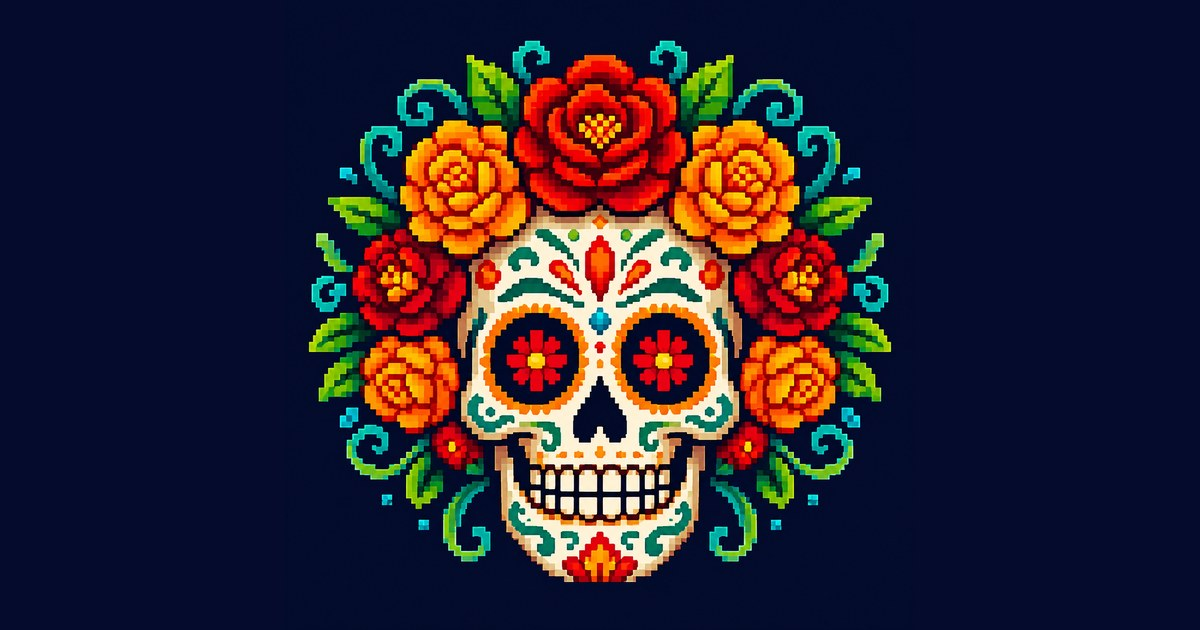
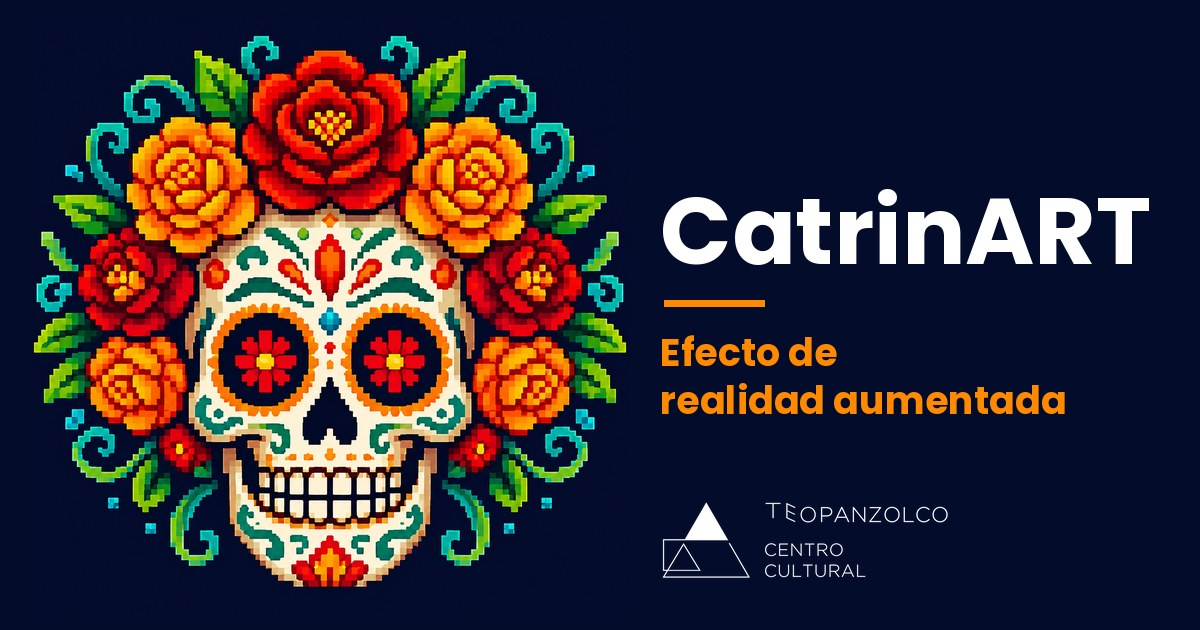
se agregan mas diseños al filtro

diff --git a/js/maquillaje.js b/js/maquillaje.js
@@ -1,11 +1,10 @@
 /* ==================================================
    CatrinART
-   MÓDULO: MAQUILLAJE DE CATRINA (único diseño)
+   MÓDULO: MAQUILLAJE DE RESPALDO (dibujado por código)
    ==================================================
-   Dibujo vectorial original, trazado con código sobre los puntos de la cara. Motivos tradicionales del
-   Día de Muertos: base blanca, cuencas con borde de cuentas, filigrana en la frente, nariz de calavera,
-   costuras en la boca, adorno en la barbilla y corona de flores de cempasúchil y rosas.
-   Para cambiar colores o tamaños, edita la paleta COLOR y los factores de cada bloque.
+   Solo se usa como ÚLTIMO RESPALDO cuando no cargan ni la malla con textura ni el diseño de assets/catrina-diseno.png.
+   Dibuja lo básico sobre los puntos de la cara: base blanca, cuencas con borde de cuentas, nariz de calavera y costuras
+   en la boca. Ya no incluye filigrana ni flores: el diseño real viene de la textura y de assets/catrina-flores.png.
    ================================================== */
 
 let COLOR = {
@@ -23,18 +22,6 @@ const OVALO = [10,338,297,332,284,251,389,356,454,323,361,288,397,365,379,378,40
 const OJO_IZQ = [33,7,163,144,145,153,154,155,133,173,157,158,159,160,161,246];
 const OJO_DER = [362,382,381,380,374,373,390,249,263,466,388,387,386,385,384,398];
 const TAU = Math.PI * 2;
-
-/** Flor de capas (pétalos redondos): tonos = [exterior, medio, centro]. */
-function flor(c, x, y, r, tonos) {
-  [[1, 9, tonos[0]], [0.72, 7, tonos[1]], [0.42, 5, tonos[2]]].forEach(([k, n, col], j) => {
-    c.fillStyle = col; c.strokeStyle = 'rgba(0,0,0,.2)'; c.lineWidth = Math.max(1, r * 0.04);
-    for (let i = 0; i < n; i++) {
-      const a = i * TAU / n + j * 0.5;
-      c.beginPath(); c.arc(x + Math.cos(a) * r * k * 0.55, y + Math.sin(a) * r * k * 0.55, r * k * 0.5, 0, TAU);
-      c.fill(); c.stroke();
-    }
-  });
-}
 
 /** Dibuja el maquillaje sobre un rostro. pts = 478 puntos normalizados; W, H = tamaño del canvas. */
 function dibujarMaquillaje(c, pts, W, H, capas) {   // capas: lista de bloques a dibujar; null = todos (respaldo sin malla)
@@ -62,25 +49,6 @@ function dibujarMaquillaje(c, pts, W, H, capas) {   // capas: lista de bloques a
     g.addColorStop(0, COLOR.sombra); g.addColorStop(1, 'rgba(95,125,160,0)');
     c.fillStyle = g; punto(p, faceW * 0.3, true);
   });
-
-  }
-
-  if (ver('frente')) {
-  // 2) Frente: rombo central, línea con círculo, volutas y puntos
-  const f = P(9), d = faceW * 0.045;
-  c.strokeStyle = COLOR.tinta; c.lineWidth = trazo;
-  [-1, 1].forEach(s => {
-    const a = at(f, s * d, 0), b = at(f, s * faceW * 0.13, -faceH * 0.11), e = at(f, s * faceW * 0.24, -faceH * 0.06);
-    c.beginPath(); c.moveTo(a.x, a.y); c.quadraticCurveTo(b.x, b.y, e.x, e.y); c.stroke();
-    c.fillStyle = COLOR.tinta; punto(e, trazo * 1.4, true);
-    punto(at(f, s * faceW * 0.12, -faceH * 0.02), faceW * 0.02, false);
-  });
-  const top = at(f, 0, -faceH * 0.15);
-  c.beginPath(); c.moveTo(at(f, 0, -d).x, at(f, 0, -d).y); c.lineTo(top.x, top.y); c.stroke();
-  c.fillStyle = COLOR.base; punto(top, faceW * 0.02, true); punto(top, faceW * 0.02, false);
-  c.beginPath(); [at(f, 0, -d), at(f, d * 0.75, 0), at(f, 0, d * 1.2), at(f, -d * 0.75, 0)].forEach((p, i) => i ? c.lineTo(p.x, p.y) : c.moveTo(p.x, p.y));
-  c.closePath(); c.fillStyle = COLOR.ambar; c.fill(); c.stroke();
-  c.fillStyle = COLOR.rojo; punto(f, d * 0.22, true);
 
   }
 
@@ -137,37 +105,6 @@ function dibujarMaquillaje(c, pts, W, H, capas) {   // capas: lista de bloques a
       c.beginPath(); c.moveTo(a.x, a.y); c.lineTo(b.x, b.y); c.stroke();
     }
   });
-
-  }
-
-  if (ver('barbilla')) {
-  // 6) Adorno en la barbilla: flor negra con centro blanco
-  const ch = at(P(152), 0, -faceH * 0.075);
-  c.fillStyle = COLOR.tinta;
-  for (let n = 0; n < 6; n++) { const t = n * TAU / 6 + roll; c.beginPath(); c.ellipse(ch.x + Math.cos(t) * faceW * 0.03, ch.y + Math.sin(t) * faceW * 0.03, faceW * 0.028, faceW * 0.016, t, 0, TAU); c.fill(); }
-  c.fillStyle = COLOR.base; punto(ch, faceW * 0.012, true);
-
-  }
-
-  // 6b) Flores en las mejillas
-  if (ver('mejillas')) {
-    [50, 280].forEach(k => { const p = P(k); flor(c, p.x, p.y, faceW * 0.06, [COLOR.vino, COLOR.rojo, COLOR.naranja]); });
-  }
-
-  if (ver('corona')) {
-  // 7) Corona: hojas y flores en arco sobre la frente
-  const cen = at(P(10), 0, faceH * 0.28), rxc = faceW * 0.66, ryc = faceH * 0.62, N = 9;
-  const pos = i => { const t = Math.PI * (1.04 + 0.92 * i / (N - 1)); return { p: at(cen, Math.cos(t) * rxc, Math.sin(t) * ryc), t }; };
-  c.fillStyle = COLOR.hoja;
-  for (let i = 0; i < N - 1; i++) {
-    const q = pos(i), r = pos(i + 1), m = { x: (q.p.x + r.p.x) / 2, y: (q.p.y + r.p.y) / 2 };
-    c.beginPath(); c.ellipse(m.x, m.y, faceW * 0.09, faceW * 0.035, (q.t + r.t) / 2 + Math.PI / 2, 0, TAU); c.fill();
-  }
-  const tonos = [[COLOR.naranja, COLOR.ambar, COLOR.amarillo], [COLOR.vino, COLOR.rojo, COLOR.naranja], [COLOR.amarillo, COLOR.ambar, COLOR.naranja]];
-  for (let i = 0; i < N; i++) {
-    const { p } = pos(i), grande = 1 - Math.abs(i - (N - 1) / 2) / N;
-    flor(c, p.x, p.y, faceW * (0.1 + 0.07 * grande), tonos[i % 3]);
-  }
 
   }
 

diff --git a/js/malla.js b/js/malla.js
@@ -65,10 +65,11 @@ async function initMalla() {
       const texCanvas = document.createElement('canvas');
       texCanvas.width = texCanvas.height = side;
       const g = texCanvas.getContext('2d');
-      if (d.filtroCss && d.filtroCss !== 'none') {
-        g.filter = d.filtroCss;
-      }
+      const filtro = d.filtroCss && d.filtroCss !== 'none' ? d.filtroCss : null;
+      const nativo = 'filter' in g;                       // Safari/iOS antiguos no lo soportan
+      if (filtro && nativo) g.filter = filtro;
       g.drawImage(img, 0, 0, side, side);
+      if (filtro && !nativo) aplicarFiltroPixeles(g, side, filtro);
 
       const texture = gl.createTexture();
       gl.bindTexture(gl.TEXTURE_2D, texture);
@@ -133,4 +134,34 @@ function dibujarMalla(c, rostros, W, H) {
 
   c.drawImage(cv, 0, 0);
   return true;
+}
+
+
+/** Respaldo del filtro CSS (hue-rotate, saturate, sepia, contrast, brightness) aplicado píxel por píxel. Se hace una sola vez por diseño. */
+function aplicarFiltroPixeles(g, side, filtro) {
+  const ops = [...filtro.matchAll(/([\w-]+)\(([^)]*)\)/g)].map(m => [m[1], parseFloat(m[2])]);
+  const datos = g.getImageData(0, 0, side, side), d = datos.data;
+  const mats = ops.map(([n, v]) => {
+    if (n === 'hue-rotate') {
+      const t = v * Math.PI / 180, c = Math.cos(t), s = Math.sin(t);
+      return [.213 + c * .787 - s * .213, .715 - c * .715 - s * .715, .072 - c * .072 + s * .928,
+              .213 - c * .213 + s * .143, .715 + c * .285 + s * .140, .072 - c * .072 - s * .283,
+              .213 - c * .213 - s * .787, .715 - c * .715 + s * .715, .072 + c * .928 + s * .072];
+    }
+    if (n === 'saturate') return [.213 + .787 * v, .715 - .715 * v, .072 - .072 * v, .213 - .213 * v, .715 + .285 * v, .072 - .072 * v, .213 - .213 * v, .715 - .715 * v, .072 + .928 * v];
+    if (n === 'sepia') { const a = 1 - v; return [.393 + .607 * a, .769 - .769 * a, .189 - .189 * a, .349 - .349 * a, .686 + .314 * a, .168 - .168 * a, .272 - .272 * a, .534 - .534 * a, .131 + .869 * a]; }
+    return null;
+  });
+  const clamp = x => x < 0 ? 0 : x > 1 ? 1 : x;
+  for (let i = 0; i < d.length; i += 4) {
+    let r = d[i] / 255, gr = d[i + 1] / 255, b = d[i + 2] / 255;
+    for (let k = 0; k < ops.length; k++) {
+      const n = ops[k][0], v = ops[k][1], m = mats[k];
+      if (m) { const R = m[0] * r + m[1] * gr + m[2] * b, G = m[3] * r + m[4] * gr + m[5] * b, B = m[6] * r + m[7] * gr + m[8] * b; r = clamp(R); gr = clamp(G); b = clamp(B); }
+      else if (n === 'contrast') { r = clamp((r - .5) * v + .5); gr = clamp((gr - .5) * v + .5); b = clamp((b - .5) * v + .5); }
+      else if (n === 'brightness') { r = clamp(r * v); gr = clamp(gr * v); b = clamp(b * v); }
+    }
+    d[i] = r * 255; d[i + 1] = gr * 255; d[i + 2] = b * 255;
+  }
+  g.putImageData(datos, 0, 0);
 }

diff --git a/index.html b/index.html
@@ -3,7 +3,7 @@
 <head>
   <meta charset="UTF-8">
   <meta name="viewport" content="width=device-width, initial-scale=1.0, viewport-fit=cover">
-  <title>CatrinART</title>
+  <title>CatrinART - Efecto de realidad aumentada</title>
   <meta name="description" content="Filtro de realidad aumentada de Catrina para Día de Muertos. Toma fotos, graba video y compártelos. Sin guardar tus datos.">
   <meta name="color-scheme" content="light">
   <meta name="theme-color" content="#040c2c">
@@ -12,18 +12,19 @@
   <meta property="og:type" content="website">
   <meta property="og:site_name" content="CatrinART">
   <meta property="og:locale" content="es_MX">
-  <meta property="og:title" content="CatrinART - Centro Cultural Teopanzolco">
+  <meta property="og:title" content="CatrinART - Efecto de realidad aumentada">
   <meta property="og:description" content="¡Ven al Centro Cultural Teopanzolco y crea tu propia CatrinART en realidad aumentada para Día de Muertos!">
   <meta property="og:url" content="https://catrina-ar.netlify.app/">
-  <meta property="og:image" content="https://catrina-ar.netlify.app/assets/preview.jpg">
+  <meta property="og:image" content="https://catrina-ar.netlify.app/assets/preview.jpg?v=2">
   <meta property="og:image:width" content="1200">
   <meta property="og:image:height" content="630">
+  <meta property="og:image:alt" content="CatrinART - Efecto de realidad aumentada. Catrina con flores de cempasúchil y el logo del Centro Cultural Teopanzolco">
 
   <!-- ============ METADATOS DE TWITTER / X ============ -->
   <meta name="twitter:card" content="summary_large_image">
-  <meta name="twitter:title" content="CatrinART - Centro Cultural Teopanzolco">
+  <meta name="twitter:title" content="CatrinART - Efecto de realidad aumentada">
   <meta name="twitter:description" content="¡Ven al Centro Cultural Teopanzolco y crea tu propia CatrinART en realidad aumentada para Día de Muertos!">
-  <meta name="twitter:image" content="https://catrina-ar.netlify.app/assets/preview.jpg">
+  <meta name="twitter:image" content="https://catrina-ar.netlify.app/assets/preview.jpg?v=2">
 
   <!-- ============ ÍCONOS (favicon y logo: Catrinart.png) ============ -->
   <link rel="icon" href="favicon.ico" sizes="any">
@@ -271,7 +272,7 @@
     </div>
 
     <!-- Contador: solo el número de fotos y videos creados (debajo del botón de AT Arquitectos). Hay una cuenta para prototipo y otra para producción -->
-    <div id="visitorCounter" class="footer__counter hidden" aria-label="Usuarios">
+    <div id="visitorCounter" class="footer__counter" aria-label="Usuarios">
       <span id="visitorCountNum" class="footer__counter-num">0</span>
     </div>
 

diff --git a/js/analytics.js b/js/analytics.js
@@ -92,22 +92,28 @@ const Analytics = {
   /** Cuenta activa según el modo de la marca PROTOTIPO. */
   modo: () => (typeof CONFIG !== 'undefined' && CONFIG.MOSTRAR_PROTOTIPO) ? 'prototipo' : 'produccion',
 
-  /** Muestra el número de la cuenta activa ('get') o le suma uno y lo muestra ('up'). */
+  /** Muestra el número de la cuenta activa ('get') o le suma uno y lo muestra ('up'). Siempre visible: si el servicio falla, muestra el último número conocido. */
   contador: async (accion) => {
     const box = document.getElementById('visitorCounter');
     const num = document.getElementById('visitorCountNum');
     if (!box || !num) return;
+    const modo = Analytics.modo();
+    const CACHE = 'catrinart_contador_' + modo;
+    const mostrar = n => { num.textContent = Number(n || 0).toLocaleString('es-MX'); box.classList.remove('hidden'); };
+    let ultimo = 0;
+    try { ultimo = parseInt(localStorage.getItem(CACHE) || '0', 10) || 0; } catch (e) {}
+    if (accion !== 'up') mostrar(ultimo);          // se ve de inmediato con el último valor conocido
     try {
-      const url = 'https://api.counterapi.dev/v1/catrinart_cct_oficial/usuarios_' + Analytics.modo() + (accion === 'up' ? '/up' : '');
+      const url = 'https://api.counterapi.dev/v1/catrinart_cct_oficial/usuarios_' + modo + (accion === 'up' ? '/up' : '');
       const res = await fetch(url);
-      if (res.status === 404) { num.textContent = '0'; box.classList.remove('hidden'); return; }   // aún no existe: va en cero
+      if (res.status === 404) { mostrar(0); return; }   // aún no existe: va en cero
       if (!res.ok) throw new Error('contador ' + res.status);
       const data = await res.json();
-      num.textContent = Number(data.count || 0).toLocaleString('es-MX');
-      box.classList.remove('hidden');
+      mostrar(data.count);
+      try { localStorage.setItem(CACHE, String(data.count || 0)); } catch (e) {}
     } catch (e) {
-      // Sin red o servicio no disponible: el contador simplemente no se muestra
-      if (accion !== 'up') box.classList.add('hidden');
+      console.warn('Contador no disponible:', e);
+      if (accion === 'up') mostrar(ultimo + 1);       // sin red: se muestra la suma local para no dejar la cifra congelada
     }
   }
 };

diff --git a/js/config.js b/js/config.js
@@ -32,7 +32,6 @@ const CONFIG = {
   TEXTURA_PX: 512,            // 512 px corre a 60 FPS ultra fluidos en móviles (1024 en equipos potentes)
   MALLA_CUBRIR_OJOS: true,     // true: la textura cubre también los ojos
   MALLA_CUBRIR_BOCA: false,    // false: al abrir la boca se ve la boca real
-  ADORNOS_SOBRE_CALAVERA: ['frente', 'mejillas', 'barbilla', 'corona'],   // Capas de maquillaje
   MAX_CANVAS_SIDE: 1280,       // Resolución máxima para fotos y videos exportados
   INTRO_LOGO_MS: 2500,         // Duración del logo del Centro Cultural al encender la app
   MOSTRAR_PROTOTIPO: true,     // true: marca de agua roja «PROTOTIPO». Ponlo en false al aprobar el proyecto
@@ -83,6 +82,30 @@ const CONFIG = {
       paletaMaquillaje: {
         tinta: '#1c1305', base: 'rgba(255,250,230,.96)', sombra: 'rgba(180,130,20,.35)',
         naranja: '#f59e0b', ambar: '#fbbf24', amarillo: '#fde047', rojo: '#dc2626', vino: '#991b1b', hoja: '#15803d'
+      }
+    },
+    {
+      id: 'rosa_mexicano',
+      nombre: 'Rosa Mexicano',
+      badge: '4',
+      desc: 'Rosa mexicano vibrante, alegre y festivo',
+      colorTema: '#ec4899',
+      filtroCss: 'sepia(0.5) hue-rotate(290deg) saturate(2.2) contrast(1.1)',
+      paletaMaquillaje: {
+        tinta: '#1a0a14', base: 'rgba(255,240,246,.95)', sombra: 'rgba(200,60,130,.35)',
+        naranja: '#f472b6', ambar: '#ec4899', amarillo: '#fde047', rojo: '#be185d', vino: '#831843', hoja: '#16a34a'
+      }
+    },
+    {
+      id: 'jade_olmeca',
+      nombre: 'Jade Olmeca',
+      badge: '5',
+      desc: 'Verde jade de las culturas mesoamericanas',
+      colorTema: '#22c55e',
+      filtroCss: 'sepia(0.6) hue-rotate(75deg) saturate(1.8) contrast(1.1)',
+      paletaMaquillaje: {
+        tinta: '#07140c', base: 'rgba(240,255,244,.95)', sombra: 'rgba(30,140,80,.35)',
+        naranja: '#34d399', ambar: '#10b981', amarillo: '#facc15', rojo: '#047857', vino: '#064e3b', hoja: '#15803d'
       }
     }
   ],

diff --git a/js/catrina.js b/js/catrina.js
@@ -77,18 +77,14 @@ function render() {
   // 3) Dibuja la textura WebGL sobre la malla 3D de los rostros
   const conMalla = dibujarMalla(ctx, smoothFaces, W, H);
 
-  // 4) Dibuja adornos, flores y maquillaje por código sobre cada rostro
+  // 4) Flores y hojas del diseño sobre cada rostro (con malla); sin malla, el diseño completo de respaldo
   smoothFaces.forEach(pts => {
     if (conMalla) {
-      const capas = diseno.flores
-        ? CONFIG.ADORNOS_SOBRE_CALAVERA.filter(n => n !== 'corona' && n !== 'mejillas')
-        : CONFIG.ADORNOS_SOBRE_CALAVERA;
-      dibujarMaquillaje(ctx, pts, W, H, capas);
       if (diseno.flores) dibujarDiseno(ctx, pts, W, H, 'flores');
     } else if (diseno.completo) {
-      dibujarDiseno(ctx, pts, W, H, 'completo'); // Sin malla: diseño de respaldo
+      dibujarDiseno(ctx, pts, W, H, 'completo');
     } else {
-      dibujarMaquillaje(ctx, pts, W, H, null);   // Último respaldo: dibujo 100% vectorial
+      dibujarMaquillaje(ctx, pts, W, H, null);   // Último respaldo: dibujo básico por código
     }
   });
 
